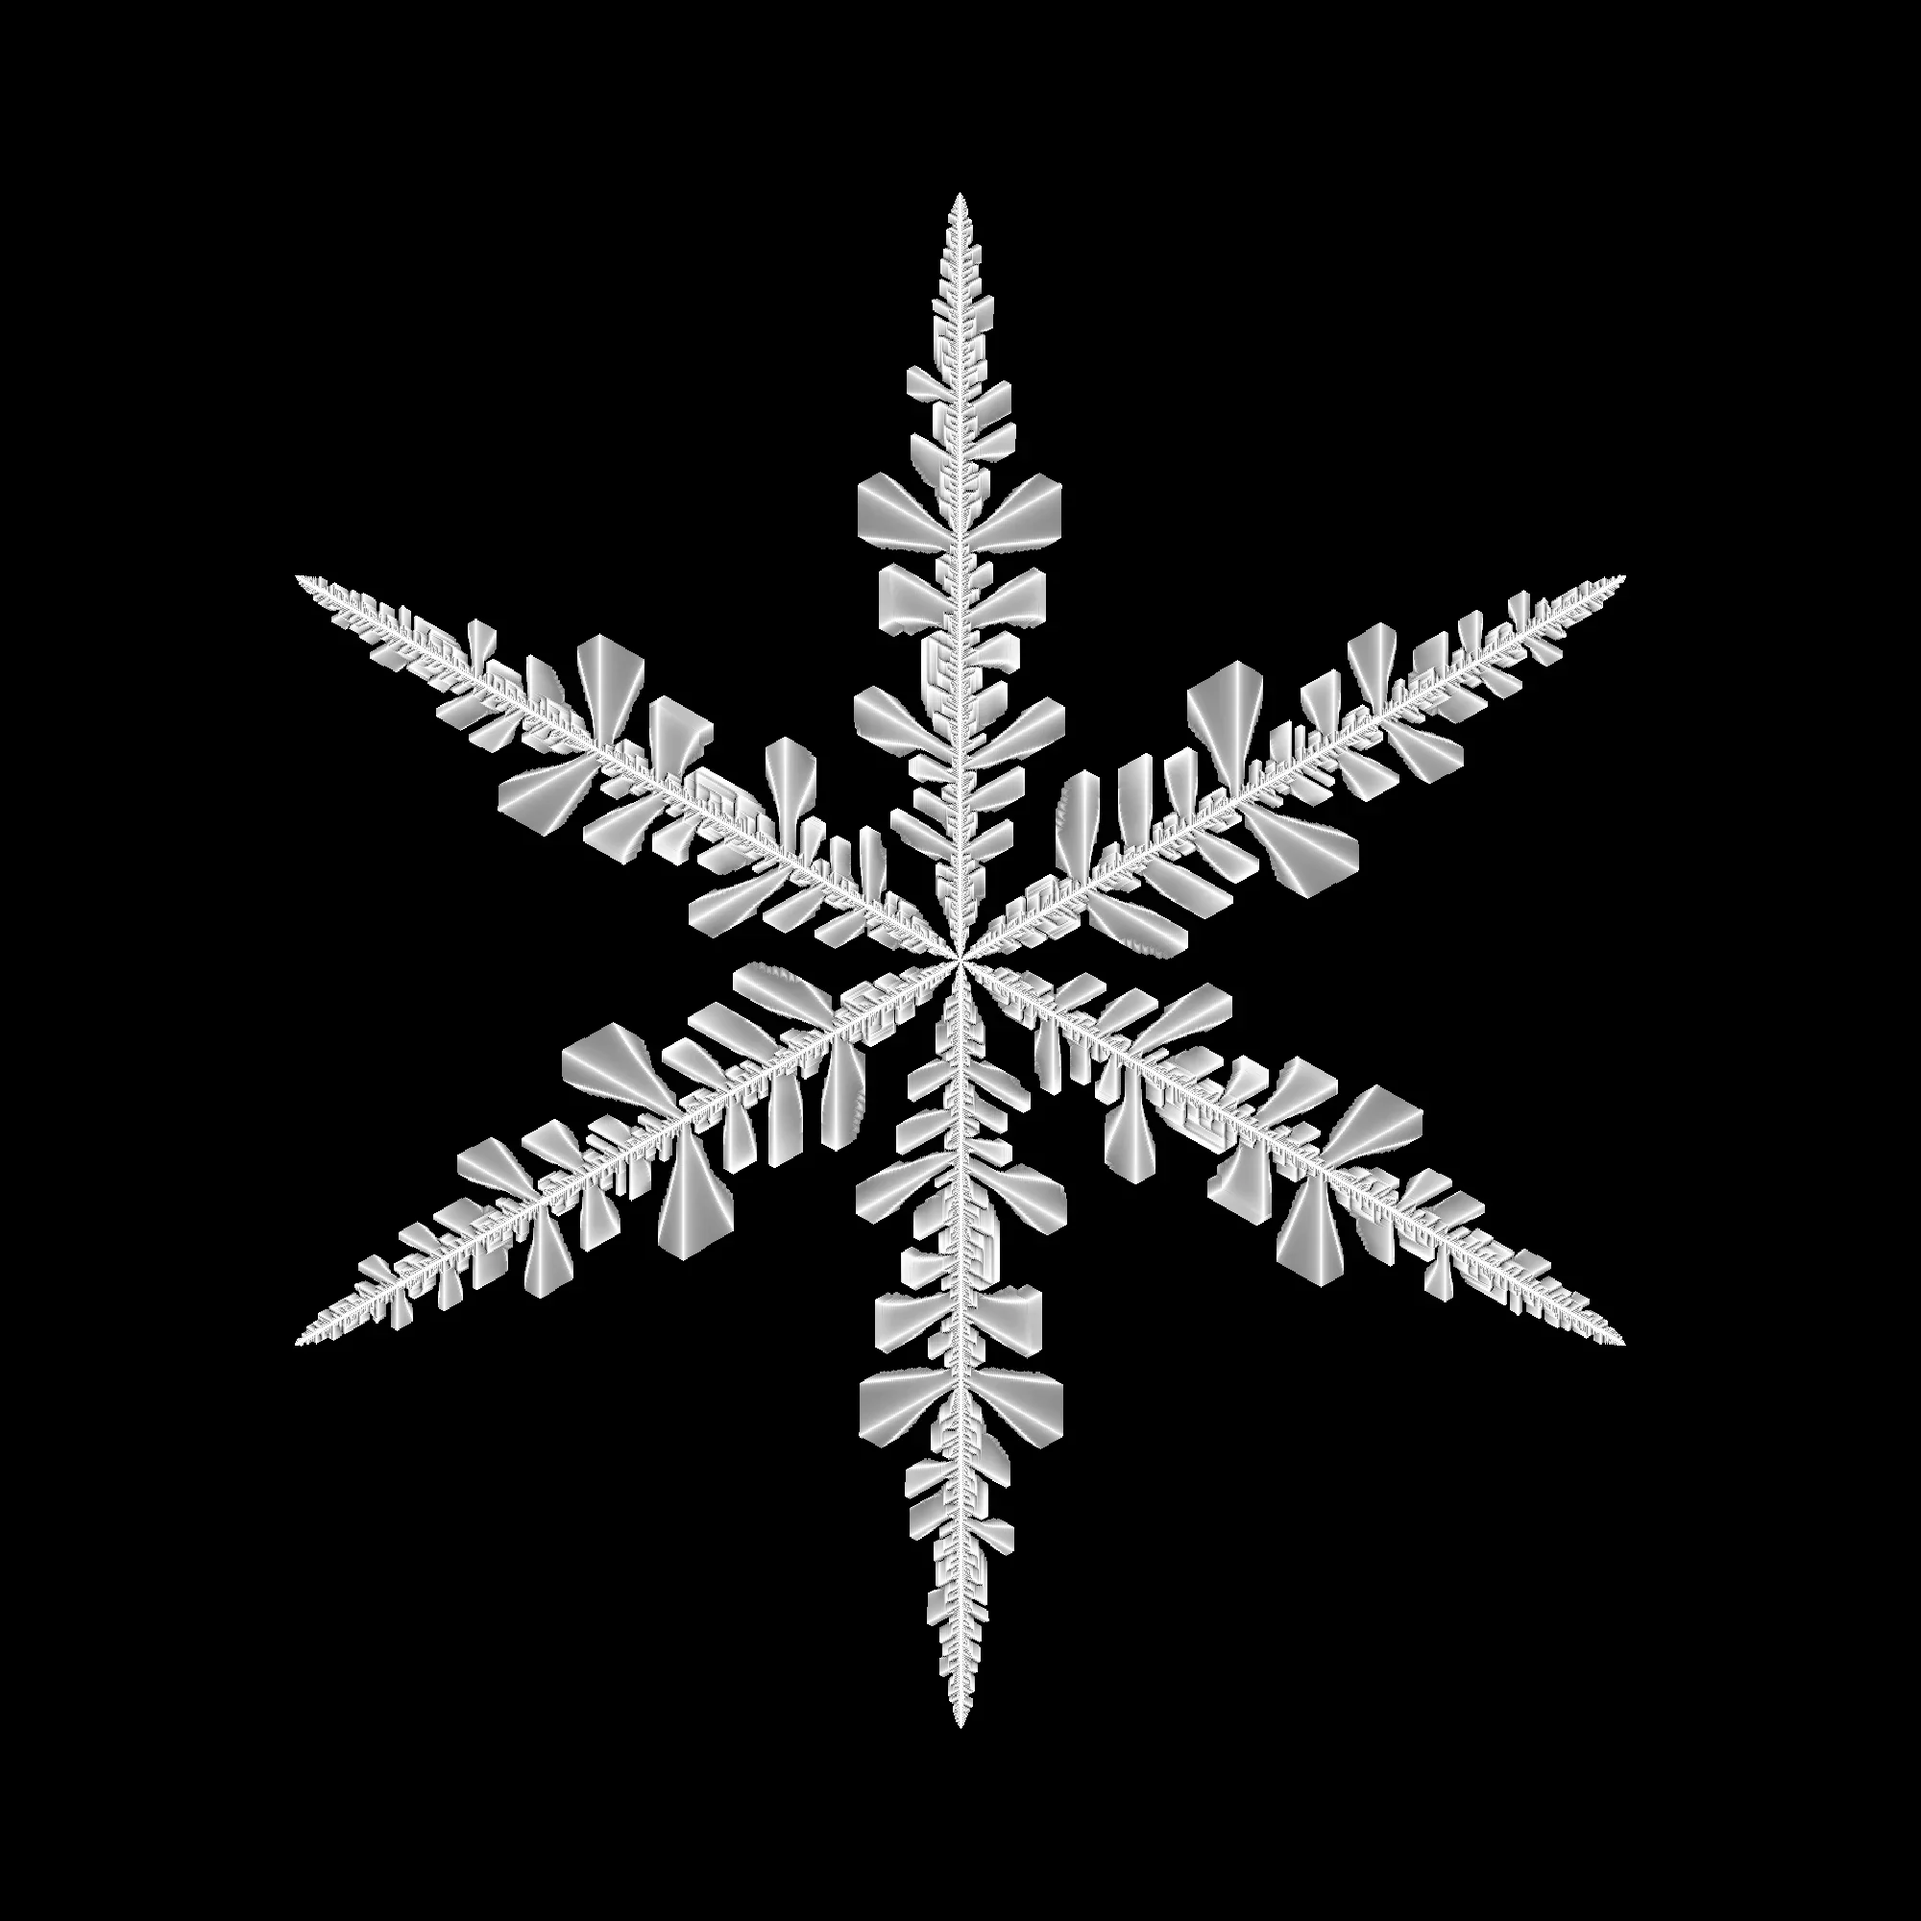
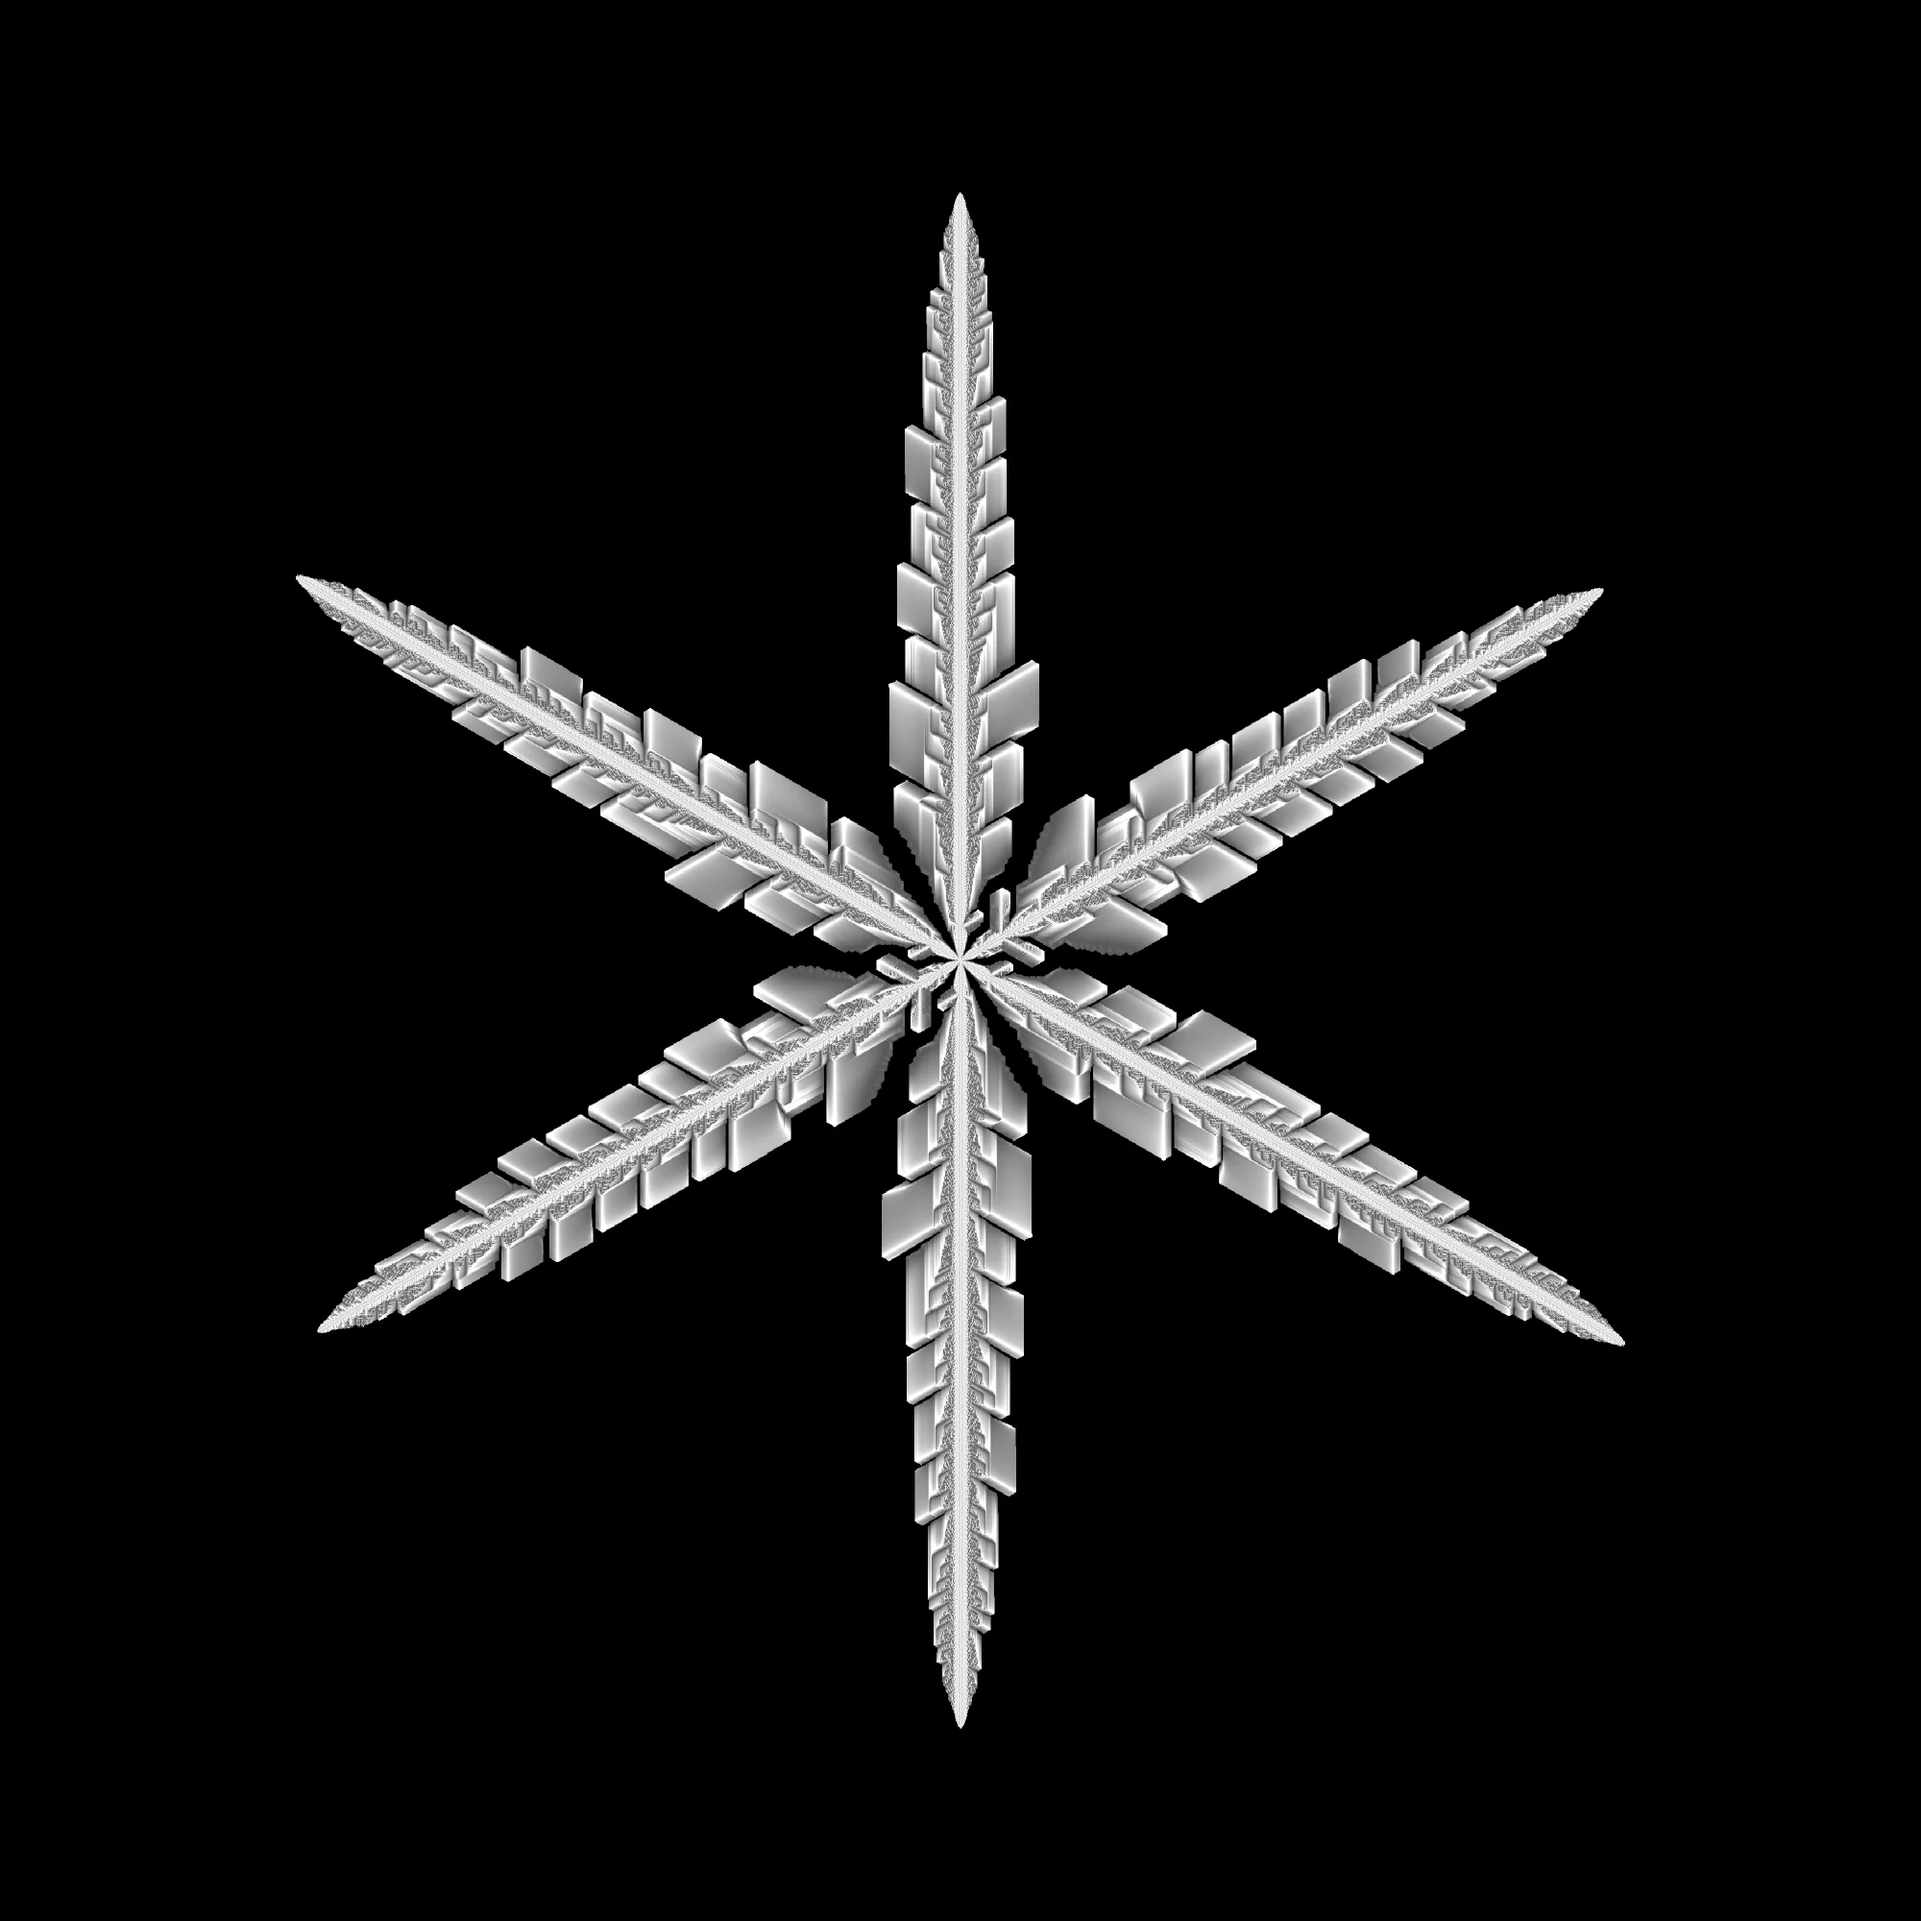
Updated snowflake

Changed region(s): [[0.155, 0.093, 0.837, 0.899]]

diff --git a/gallery/scripts/imageData.min.js b/gallery/scripts/imageData.min.js
@@ -4,9 +4,7 @@ const galleryImageData={"voronoi-diagram-1":{title:"A Voronoi Diagram",appletLin
 			Generated from $z^2 - 0.05z^{-2} + c$
 		`,featured:"Featured in UO&#x2019;s Erb Memorial Union and University Hall",appletLink:"generalized-julia-sets",driveId:"16LcsF7n7w329sO4T-IwWb-p7ykpglNQO"},"hitomezashi-pattern-2":{title:"A Hitomezashi Pattern",appletLink:"hitomezashi-patterns",driveId:"1JkngUmUdSEJvzYMRTTUIa3jy26F0c6m8"},"brownian-tree":{title:"A Brownian Tree",featured:"Featured in UO&#x2019;s Erb Memorial Union",appletLink:"brownian-trees",driveId:"1BSuYpCW9jQKqu8NOu6f_6omr_LVMXprh"},"lyapunov-fractal":{title:"A Lyapunov Fractal",parameters:"Generating string <code>AABB</code>",appletLink:"lyapunov-fractals",driveId:"1Xb5BMuz-iB9f-CN4l5wyZtbCLLOXrz80"},"strange-attractor":{title:"A Lorenz Attractor",appletLink:"strange-attractors",driveId:"1sRCKC-WE8a2iYNW942uKgAJbHVkAYDrQ"},"vector-field":{title:"A Vector Field",parameters:`
 			Generated from $\\left( \\sin\\left( \\frac{y}{2.5} \\right), \\tan\\left( \\frac{x}{2.5} \\right) \\right)$
-		`,appletLink:"vector-fields",driveId:"1016R9thI8dQdvEhTJGNMFehaCRhrbSxA"},"julia-set-1":{title:"A Julia Set",appletLink:"julia-set-explorer",driveId:"1V4B0ULle-Dq0-ludCNyQg5lQ8Hm6cm_X"},snowflake:{title:"A Gravner-Griffeath Snowflake",parameters:`
-			Generated with $\\rho = 0.3673$, $\\beta = 1.1016$, $\\alpha = 0.4022$, $\\theta = 0.0311$, $\\kappa = 0.0013$, $\\mu = 0.019$, and $\\gamma = 0.0005$
-		`,appletLink:"snowflakes",driveId:"1qCDJIacawSFc8rAJK57YbqQjVC_79Lu9"},"quaternionic-julia-set-1":{title:"A Quaternionic Julia Set",parameters:`
+		`,appletLink:"vector-fields",driveId:"1016R9thI8dQdvEhTJGNMFehaCRhrbSxA"},"julia-set-1":{title:"A Julia Set",appletLink:"julia-set-explorer",driveId:"1V4B0ULle-Dq0-ludCNyQg5lQ8Hm6cm_X"},snowflake:{title:"A Gravner-Griffeath Snowflake",appletLink:"snowflakes",driveId:"1G4GWlWJvQWlP04IxWpNGmVCfwj0RZnX0"},"quaternionic-julia-set-1":{title:"A Quaternionic Julia Set",parameters:`
 			Generated with $c = (-0.54, -0.25, -0.668, 0)$
 		`,featured:"Featured in the 2023 Bridges Conference",appletLink:"quaternionic-julia-sets",driveId:"1092d-V4qcvcW5_lsf5xsyDQvlDs1LdO9"},"kicked-rotator":{title:"A Kicked Rotator",parameters:`
 			Generated with $K = 0.75$

diff --git a/gallery/scripts/imageData.js b/gallery/scripts/imageData.js
@@ -230,13 +230,9 @@ export const galleryImageData =
 	{
 		title: "A Gravner-Griffeath Snowflake",
 
-		parameters: /* html */`
-			Generated with $\\rho = 0.3673$, $\\beta = 1.1016$, $\\alpha = 0.4022$, $\\theta = 0.0311$, $\\kappa = 0.0013$, $\\mu = 0.019$, and $\\gamma = 0.0005$
-		`,
-
 		appletLink: "snowflakes",
 
-		driveId: "1qCDJIacawSFc8rAJK57YbqQjVC_79Lu9"
+		driveId: "1G4GWlWJvQWlP04IxWpNGmVCfwj0RZnX0"
 	},
 
 
